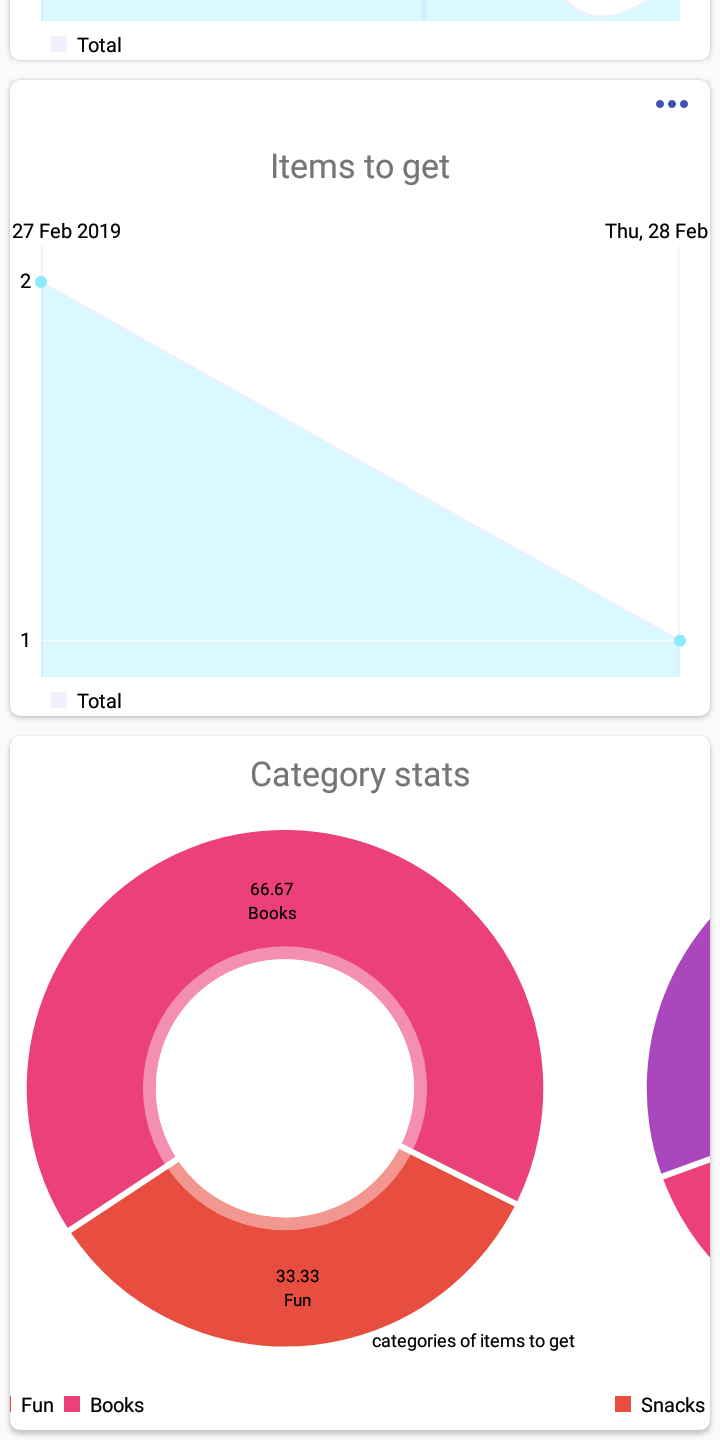
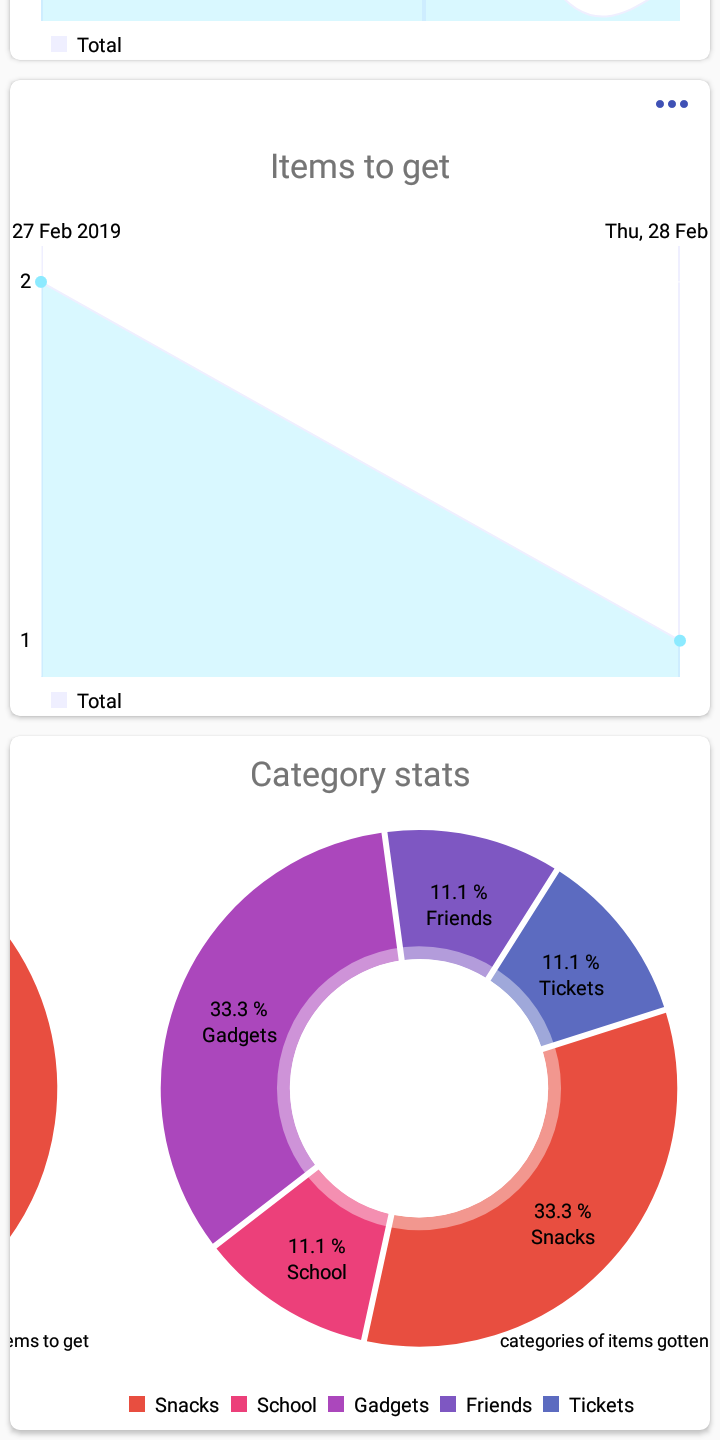
Code Updates

diff --git a/app/src/main/java/com/mofe/activities/stats_activity.kt b/app/src/main/java/com/mofe/activities/stats_activity.kt
@@ -8,6 +8,7 @@ import android.os.Build
 import android.os.Bundle
 import android.view.View
 import com.github.mikephil.charting.data.*
+import com.github.mikephil.charting.formatter.PercentFormatter
 import com.mofe.R
 import com.mofe.database.AppDatabase
 import com.mofe.database.entities.Cate
@@ -15,6 +16,7 @@ import com.mofe.database.entities.Items
 import kotlinx.android.synthetic.main.activity_stats_views.*
 import org.jetbrains.anko.selector
 import org.jetbrains.anko.toast
+
 
 /**
  * Created by ${cosmic} on 2/19/19.
@@ -117,8 +119,14 @@ class stats_activity : home_activity() {
             }
         }
 
-        renderPieChart_ng_Cate()
-        renderPieChart_g_Cate()
+        if (count_list_cate_1.size != 0 && count_list_cate_2.size != 0) {
+
+            renderPieChart_ng_Cate()
+            renderPieChart_g_Cate()
+
+            pie_chart_view.visibility = View.VISIBLE
+
+        }
 
     }
 
@@ -252,7 +260,10 @@ class stats_activity : home_activity() {
         val pieDataSet = PieDataSet(yVentries, "")
         pieDataSet.setSliceSpace(3f)
         pieDataSet.setSelectionShift(5f)
+        pieDataSet.setValueFormatter(PercentFormatter())
         pieDataSet.setColors(androidColors.slice(0..count_list_cate_1.size))
+        pieDataSet.setValueTextColor(Color.BLACK);
+        pieDataSet.valueTextSize = 10f
 
         val pieData = PieData(cate_notgotten_item_counts.distinct(), pieDataSet)
 
@@ -285,7 +296,10 @@ class stats_activity : home_activity() {
         val pieDataSet = PieDataSet(yVentries, "")
         pieDataSet.setSliceSpace(3f)
         pieDataSet.setSelectionShift(5f)
+        pieDataSet.setValueFormatter(PercentFormatter())
         pieDataSet.setColors(androidColors.slice(0..count_list_cate_2.size))
+        pieDataSet.setValueTextColor(Color.BLACK);
+        pieDataSet.valueTextSize = 10f
 
         val pieData = PieData(cate_gotten_item_counts.distinct(), pieDataSet)
 
@@ -294,7 +308,7 @@ class stats_activity : home_activity() {
 
         pie_g_cate_chart.data = pieData
         pie_g_cate_chart.setUsePercentValues(true)
-        pie_g_cate_chart.setCenterTextSize(7f)
+        pie_g_cate_chart.setCenterTextSize(5f)
         pie_g_cate_chart.setCenterTextColor(Color.BLACK)
         pie_g_cate_chart.setHoleColor(Color.WHITE)
         pie_g_cate_chart.setDescription("categories of items gotten")
